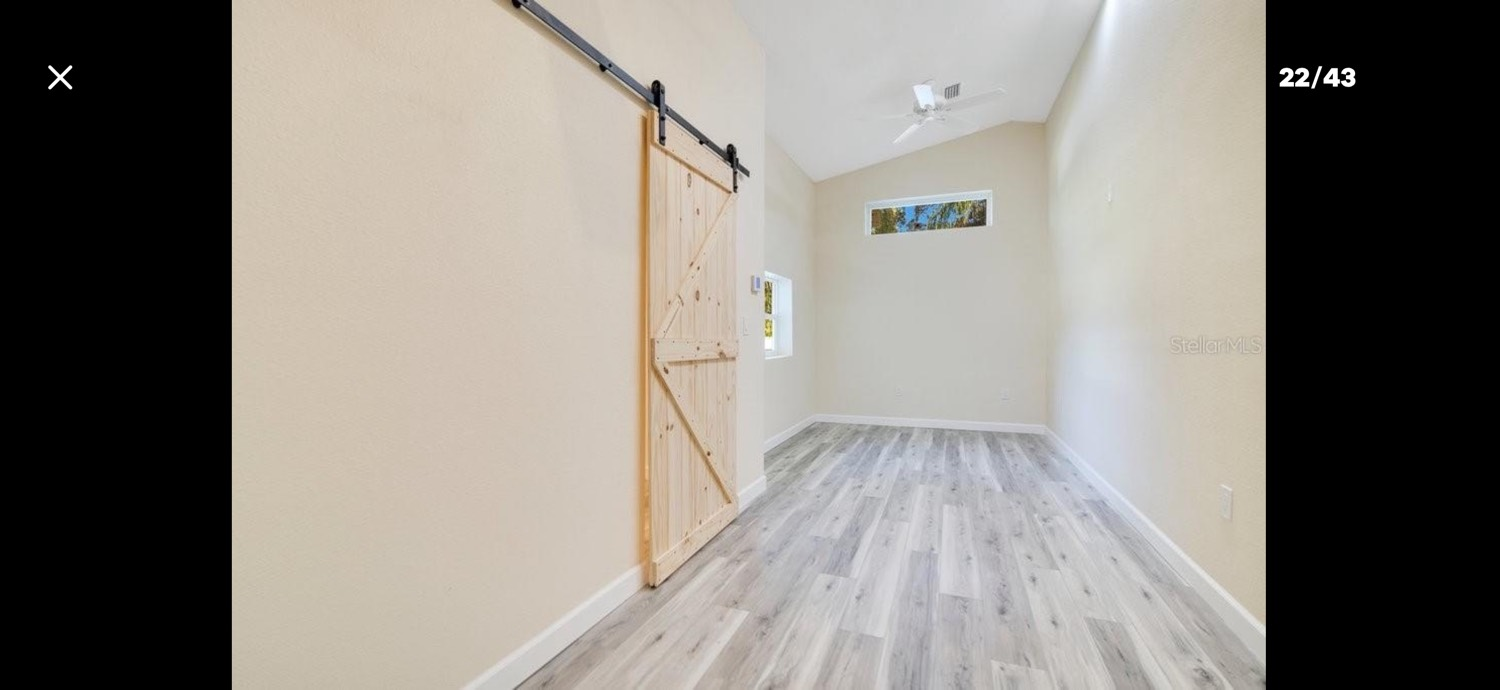
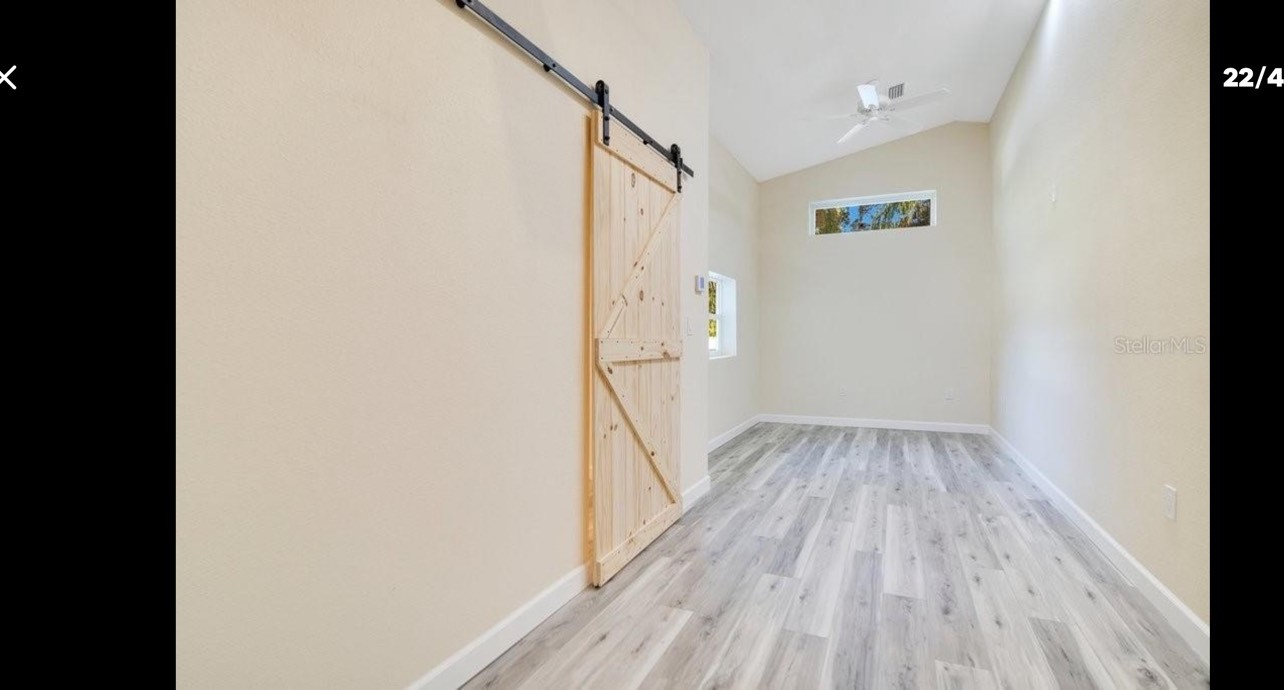
Leesburg slider: trim baked-in black side bars, match frame ratio

Changed region(s): [[0.3115, 0.0, 1.0, 1.0], [0.1246, 0.0, 0.1558, 1.0], [0.0, 0.0913, 0.0623, 0.1217]]

diff --git a/index.html b/index.html
@@ -62,6 +62,8 @@
     .carousel .dots button[aria-current="true"]{background:#333}
     @media (max-width:760px){.carousel{width:100vw}.carousel .frame{border-radius:0;aspect-ratio:4/3}.carousel .nav{width:42px;height:42px;font-size:30px;line-height:38px}}
     @media (prefers-reduced-motion:reduce){.carousel .track{transition:none}}
+    #car-fairway .frame{aspect-ratio:1284/690;max-height:none;background:#f4f1ea}
+    @media (max-width:760px){#car-fairway .frame{aspect-ratio:1284/690}}
   </style>
 </head>
 <body>
